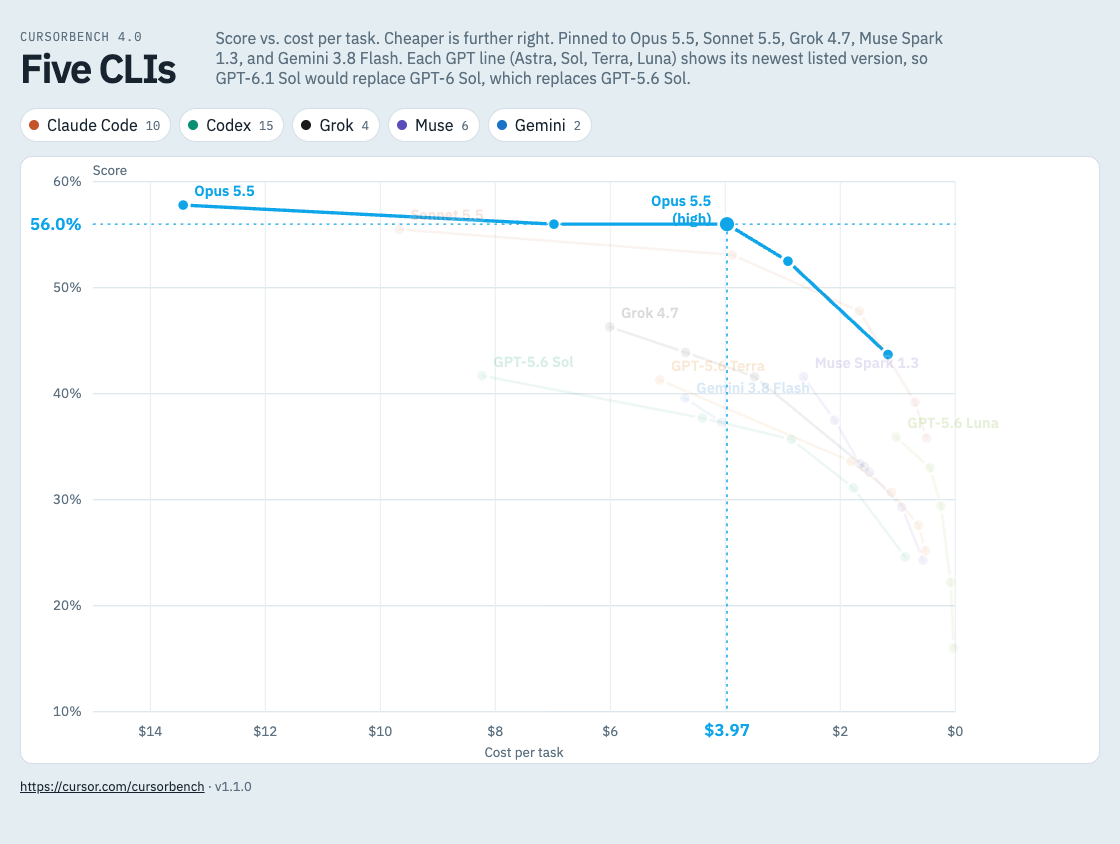
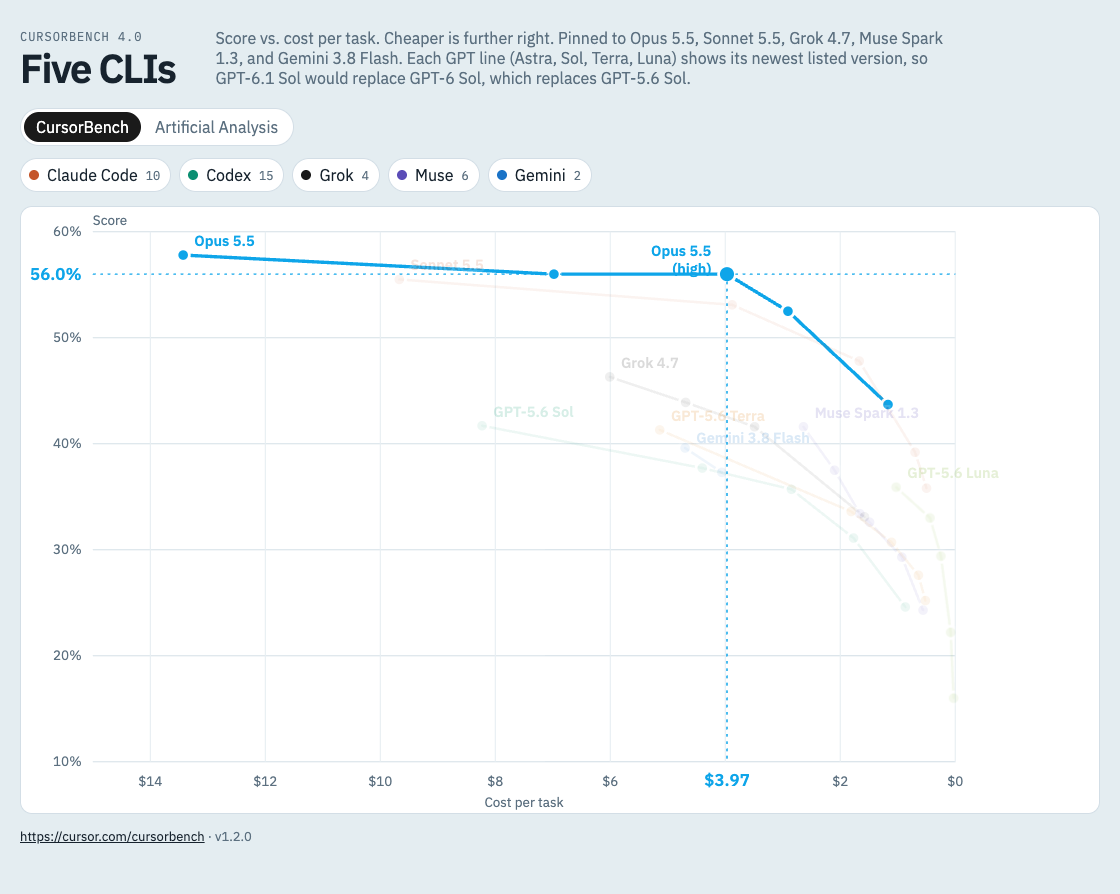
feat: switch between CursorBench and Artificial Analysis data
- Source toggle (?source=aa) above the legend. AA uses the same pinned
  models and newest-per-GPT-line rule, so GPT-6.1 Sol, GPT-6 Astra and
  GPT-6 Luna show before CursorBench lists them.
- server/aa.mjs reads AA's release list and each release's own
  per-effort entries as JSON; an effort without a score or cost per
  task is left out instead of borrowing a neighbour's numbers.
- AA results cached 6 hours in data/aa-cache.json, falling back per
  release on fetch failure.
- Score unit and chart title follow the source.
- README: source toggle, AA data flow, changelog, new screenshots.
- Bump to 1.2.0.

diff --git a/src/App.tsx b/src/App.tsx
@@ -2,13 +2,19 @@ import { useEffect, useMemo, useState } from "react"
 import {
   APP_VERSION,
   PROVIDERS,
-  SOURCE_URL,
+  SOURCES,
   type ProviderId,
   type Row,
+  type SourceId,
 } from "./bench"
 import Chart from "./Chart"
 
+function initialSource(): SourceId {
+  return new URLSearchParams(window.location.search).get("source") === "aa" ? "aa" : "cursorbench"
+}
+
 export default function App() {
+  const [source, setSource] = useState<SourceId>(initialSource)
   const [hidden, setHidden] = useState<ReadonlySet<ProviderId>>(() => new Set())
   const [rows, setRows] = useState<Row[]>([])
   const [error, setError] = useState<string | null>(null)
@@ -17,7 +23,9 @@ export default function App() {
 
   useEffect(() => {
     const controller = new AbortController()
-    fetch("/api/bench", { signal: controller.signal })
+    setRows([])
+    setError(null)
+    fetch(`/api/bench?source=${source}`, { signal: controller.signal })
       .then(async (response) => {
         const body = (await response.json()) as { rows?: Row[]; changed?: boolean; error?: string }
         if (!response.ok || !body.rows?.length) throw new Error(body.error ?? String(response.status))
@@ -29,7 +37,19 @@ export default function App() {
         setError(reason instanceof Error ? reason.message : "Failed to load")
       })
     return () => controller.abort()
-  }, [])
+  }, [source])
+
+  const pickSource = (next: SourceId) => {
+    if (next === source) return
+    const url = new URL(window.location.href)
+    if (next === "cursorbench") url.searchParams.delete("source")
+    else url.searchParams.set("source", next)
+    window.history.replaceState(null, "", url)
+    setPinned(null)
+    setHover(null)
+    setSource(next)
+  }
+  const meta = SOURCES[source]
 
   const visible = useMemo(
     () => rows.filter((row) => !hidden.has(row.provider)),
@@ -51,15 +71,32 @@ export default function App() {
     <main className="sheet">
       <header className="head">
         <div>
-          <p className="eyebrow">CursorBench 4.0</p>
+          <p className="eyebrow">{meta.eyebrow}</p>
           <h1>Five CLIs</h1>
         </div>
         <p className="deck">
           Score vs. cost per task. Cheaper is further right. Pinned to Opus 5.5, Sonnet 5.5, Grok 4.7, Muse Spark 1.3, and
           Gemini 3.8 Flash. Each GPT line (Astra, Sol, Terra, Luna) shows its newest listed version, so GPT-6.1 Sol would
           replace GPT-6 Sol, which replaces GPT-5.6 Sol.
+          {source === "aa"
+            ? " AA scores a general intelligence index on another test set; do not compare them with CursorBench percentages."
+            : null}
         </p>
       </header>
+
+      <div className="sources" role="group" aria-label="Data source">
+        {(Object.keys(SOURCES) as SourceId[]).map((id) => (
+          <button
+            key={id}
+            type="button"
+            className={id === source ? "source on" : "source"}
+            aria-pressed={id === source}
+            onClick={() => pickSource(id)}
+          >
+            {SOURCES[id].name}
+          </button>
+        ))}
+      </div>
 
       <div className="legend" role="group" aria-label="Visible providers">
         {PROVIDERS.map((provider) => {
@@ -84,12 +121,14 @@ export default function App() {
 
       {error ? (
         <p className="empty">Could not load this page ({error}).</p>
+      ) : rows.length === 0 ? (
+        <p className="empty">Loading {meta.name}…</p>
       ) : (
-        <Chart rows={visible} active={active} onHover={setHover} onPick={(label) => setPinned((current) => (current === label ? null : label))} />
+        <Chart rows={visible} unit={meta.unit} scoreName={meta.scoreName} active={active} onHover={setHover} onPick={(label) => setPinned((current) => (current === label ? null : label))} />
       )}
 
       <p className="foot">
-        <a href={SOURCE_URL}>{SOURCE_URL}</a> · v{APP_VERSION}
+        <a href={meta.url}>{meta.url}</a> · v{APP_VERSION}
       </p>
     </main>
   )

diff --git a/src/Chart.tsx b/src/Chart.tsx
@@ -23,6 +23,8 @@ type Label = {
 
 type Props = {
   rows: Row[]
+  unit: string
+  scoreName: string
   active: string | null
   onHover: (label: string | null) => void
   onPick: (label: string | null) => void
@@ -35,7 +37,7 @@ function effortIndex(effort: string | null) {
   return index === -1 ? 98 : index
 }
 
-export default function Chart({ rows, active, onHover, onPick }: Props) {
+export default function Chart({ rows, unit, scoreName, active, onHover, onPick }: Props) {
   const [narrow, setNarrow] = useState(
     () => typeof window !== "undefined" && window.matchMedia("(max-width: 720px)").matches,
   )
@@ -135,7 +137,7 @@ export default function Chart({ rows, active, onHover, onPick }: Props) {
       aria-labelledby="chart-desc"
     >
       <title id="chart-desc">
-        CursorBench 4.0 score vs. cost per task. Higher cost on the left, $0 on the right.
+        {scoreName} vs. cost per task. Higher cost on the left, $0 on the right.
       </title>
       <rect x={pad.l} y={pad.t} width={plotW} height={plotH} fill="#ffffff" />
       {yTicks.map((tick) => (
@@ -154,7 +156,8 @@ export default function Chart({ rows, active, onHover, onPick }: Props) {
             className="tick"
             opacity={focusY !== null && Math.abs(yOf(tick) - focusY) < 18 ? 0 : 1}
           >
-            {tick}%
+            {tick}
+            {unit}
           </text>
         </g>
       ))}
@@ -216,7 +219,7 @@ export default function Chart({ rows, active, onHover, onPick }: Props) {
                   tabIndex={0}
                   className="point-hit"
                   aria-pressed={on}
-                  aria-label={`${row.model} ${row.effort ?? ""}: ${formatScore(row.score)}, ${formatCost(row.cost)} per task`}
+                  aria-label={`${row.model} ${row.effort ?? ""}: ${formatScore(row.score, unit)}, ${formatCost(row.cost)} per task`}
                   transform={`translate(${xOf(row.cost).toFixed(1)} ${yOf(row.score).toFixed(1)})`}
                   onPointerEnter={() => onHover(row.label)}
                   onPointerLeave={() => onHover(null)}
@@ -285,7 +288,7 @@ export default function Chart({ rows, active, onHover, onPick }: Props) {
             fill={focusColor}
             className="cross-value"
           >
-            {formatScore(focus.score)}
+            {formatScore(focus.score, unit)}
           </text>
           <text
             x={focusX}

diff --git a/src/bench.ts b/src/bench.ts
@@ -22,9 +22,31 @@ export const PROVIDERS: readonly {
   { id: "gemini", name: "Gemini", color: "#1a73c7" },
 ]
 
-export const SOURCE_URL = "https://cursor.com/cursorbench"
+export type SourceId = "cursorbench" | "aa"
 
-export const APP_VERSION = "1.1.0"
+export const SOURCES: Record<
+  SourceId,
+  { id: SourceId; name: string; eyebrow: string; url: string; unit: string; scoreName: string }
+> = {
+  cursorbench: {
+    id: "cursorbench",
+    name: "CursorBench",
+    eyebrow: "CursorBench 4.0",
+    url: "https://cursor.com/cursorbench",
+    unit: "%",
+    scoreName: "CursorBench 4.0 score",
+  },
+  aa: {
+    id: "aa",
+    name: "Artificial Analysis",
+    eyebrow: "AA Intelligence Index",
+    url: "https://artificialanalysis.ai/models/releases",
+    unit: "",
+    scoreName: "Artificial Analysis Intelligence Index",
+  },
+}
+
+export const APP_VERSION = "1.2.0"
 
 export function providerById(id: ProviderId) {
   const found = PROVIDERS.find((item) => item.id === id)
@@ -43,8 +65,8 @@ export function seriesColor(model: string, provider: ProviderId) {
   return providerById(provider).color
 }
 
-export function formatScore(score: number) {
-  return `${score.toFixed(1)}%`
+export function formatScore(score: number, unit = "%") {
+  return `${score.toFixed(1)}${unit}`
 }
 
 export function formatCost(cost: number) {

diff --git a/src/index.css b/src/index.css
@@ -63,6 +63,36 @@ h1 {
   color: var(--muted);
 }
 
+.sources {
+  display: inline-flex;
+  gap: 2px;
+  margin-bottom: 12px;
+  padding: 3px;
+  border: 1px solid var(--line);
+  border-radius: 999px;
+  background: #fff;
+}
+
+.source {
+  padding: 5px 12px;
+  border: 0;
+  border-radius: 999px;
+  background: transparent;
+  color: var(--muted);
+  cursor: pointer;
+  font: inherit;
+}
+
+.source.on {
+  background: #1a1a1a;
+  color: #fff;
+}
+
+.source:focus-visible {
+  outline: 2px solid #1a73c7;
+  outline-offset: 2px;
+}
+
 .legend {
   display: flex;
   flex-wrap: wrap;

diff --git a/README.md b/README.md
@@ -26,6 +26,10 @@ Clicking a legend chip shows or hides that CLI. Here only Codex is visible, comp
 
 As of 2026-10-01 the leaderboard has no GPT-6 models, so Codex still shows GPT-5.6. GPT-6 has no Terra line, so Terra stays on 5.6.
 
+**Data source switch:** the toggle above the legend swaps CursorBench for the [Artificial Analysis](https://artificialanalysis.ai/models/releases) Intelligence Index, using the same models and the same GPT rule. AA already lists GPT-6.1 Sol, GPT-6 Astra and GPT-6 Luna. Its score is a general intelligence index on a different test set, so read it on its own and do not compare it with CursorBench percentages. AA scores fewer efforts for some models (Grok 4.7 and Muse Spark 1.3 have two each). The choice is kept in the URL as `?source=aa`.
+
+![Demo: the same chart on the Artificial Analysis Intelligence Index](docs/demo-aa.png)
+
 ## Quick start
 
 Requires Node.js 18 or newer.
@@ -39,6 +43,7 @@ Open the URL Vite prints (default http://localhost:5173).
 
 ## Using the chart
 
+- **Source toggle:** switch between CursorBench and Artificial Analysis.
 - **Legend chips:** click to show or hide a CLI. The number is how many points it has.
 - **Hover** a point to highlight its label, score, and cost.
 - **Click** a point to pin it. Click again to unpin.
@@ -53,6 +58,12 @@ CursorBench has no public API or data file, so the dev server scrapes the leader
    - **Same hash:** the cached rows are returned as-is, with no re-parsing.
    - **Different hash:** rows are re-parsed, filtered to the models above, and the cache is rewritten.
 4. If cursor.com is unreachable, the last cached rows are served instead.
+
+The Artificial Analysis source (`/api/bench?source=aa`, in [server/aa.mjs](server/aa.mjs)) works differently:
+
+1. It fetches the AA "All releases" page and picks the releases to show with the same model rule.
+2. It fetches each picked release page and reads that release's own per-effort entries. An effort without an index score or a cost per task is left out.
+3. Results are cached in `data/aa-cache.json` for 6 hours. If a release page fails, its last cached rows are kept.
 
 `data/` is git-ignored, so the cache is created on your first run.
 
@@ -70,12 +81,19 @@ CursorBench has no public API or data file, so the dev server scrapes the leader
 ## Project layout
 
 ```
-server/bench.mjs   Scraper, model filter, cache, and the /api/bench Vite plugin
-src/App.tsx        Page layout, legend chips, data loading
+server/bench.mjs   CursorBench scraper, model filter, cache, and the /api/bench Vite plugin
+server/aa.mjs      Artificial Analysis source (release pages, per-effort rows, cache)
+src/App.tsx        Page layout, source toggle, legend chips, data loading
 src/Chart.tsx      SVG scatter/line chart (score vs. cost)
 src/bench.ts       Shared types, provider colors, formatting helpers
 ```
 
 ## Changing which models are shown
 
-Edit `KEEP` and `GPT_LINES` in [server/bench.mjs](server/bench.mjs), then delete `data/bench-cache.json` so the next load rebuilds the cache.
+Edit `KEEP` and `GPT_LINES` in [server/bench.mjs](server/bench.mjs), then delete `data/bench-cache.json` and `data/aa-cache.json` so the next load rebuilds both caches.
+
+## Changelog
+
+- **1.2.0** (2026-10-01): Data source toggle between CursorBench and the Artificial Analysis Intelligence Index (`?source=aa`), so GPT-6.1 Sol, GPT-6 Astra and GPT-6 Luna can be seen before CursorBench lists them. AA rows are read per release and per effort, never borrowed from a neighbouring model.
+- **1.1.0** (2026-10-01): Each GPT line shows its newest listed version (GPT-6.1 Sol replaces GPT-6 Sol, which replaces GPT-5.6 Sol). Added Sonnet 5.5 and GPT-5.6 Luna.
+- **1.0.0** (2026-09-27): First release. CursorBench score vs. cost per task for five coding CLIs.
